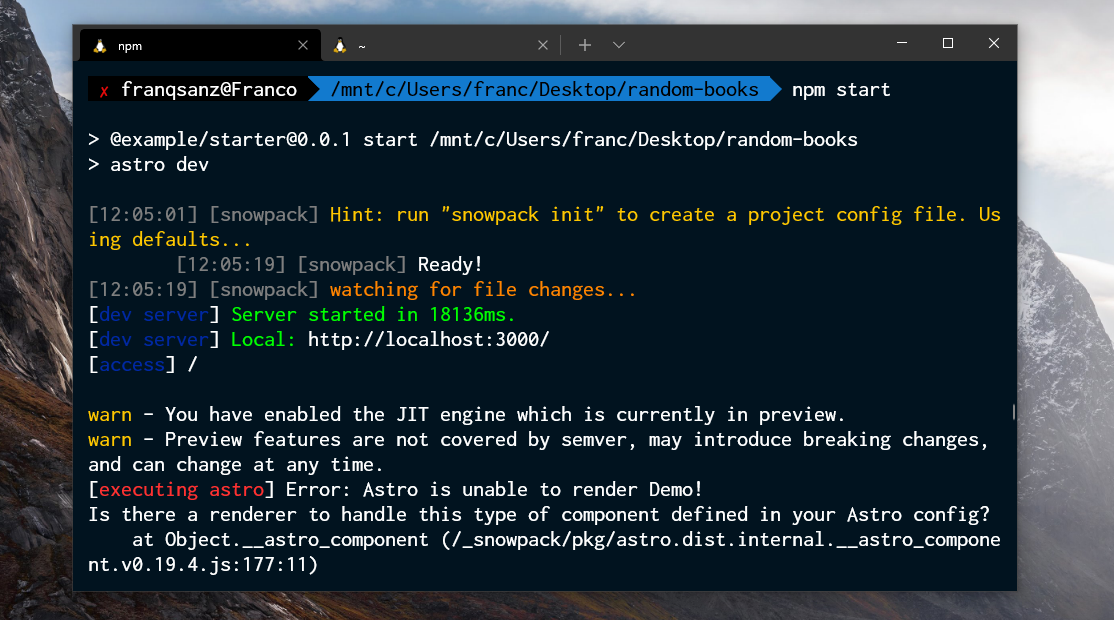
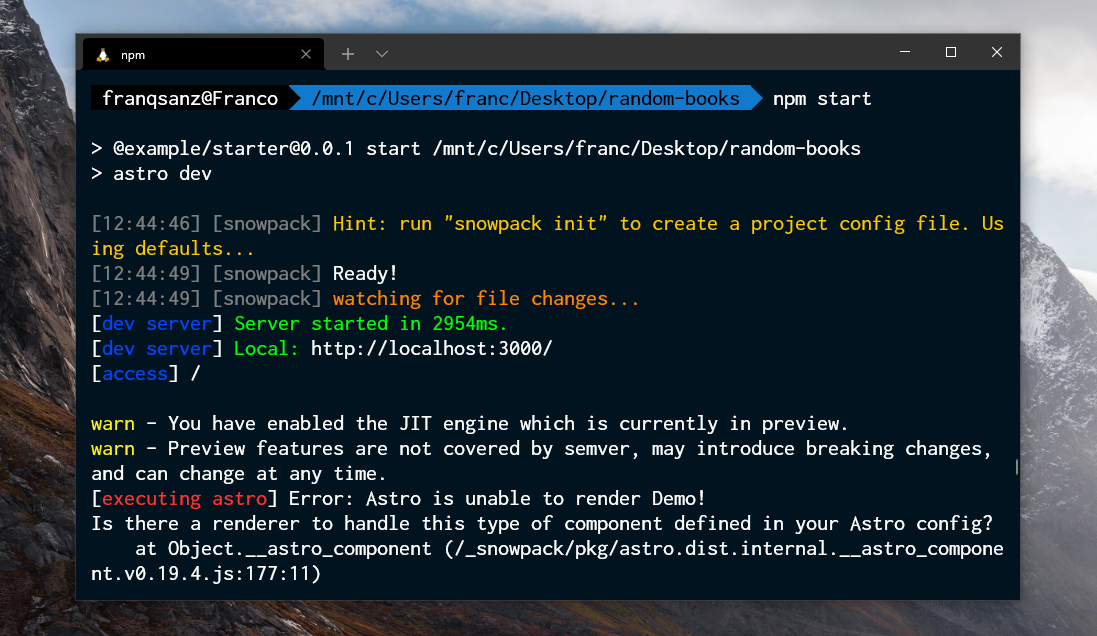
update colors

Changed region(s): [[0.0, 0.0, 1.0, 1.0]]

diff --git a/readme.md b/readme.md
@@ -1,5 +1,5 @@
 # Alive for [Windows Terminal](https://github.com/microsoft/terminal)
-🎨 Mi tema oscuro para Windows Terminal. Inspirado en el tema Dracula y Cobalt2.
+🎨 Mi tema oscuro para Windows Terminal. Inspirado en el tema [Cobalt2](https://github.com/wesbos/cobalt2-vscode).
 
 ![screenshot1](./img/1.png)
 ![screenshot2](./img/2.png)
@@ -17,7 +17,7 @@ Esto le abrirá lo siguiente:
 Luego navegue hasta "Combinaciones de colores"
 ![screenshot7](./img/7.png)
 
-## Esquema de colores
+### Esquema de colores
 
 ```json
 "schemes": [
@@ -27,13 +27,13 @@ Luego navegue hasta "Combinaciones de colores"
     "black": "#000000",
     "blue": "#127ACE",
     "brightBlack": "#079BFF",
-    "brightBlue": "#0028A3",
+    "brightBlue": "#0045FF",
     "brightCyan": "#FF8D39",
     "brightGreen": "#00AD00",
     "brightPurple": "#FF00FF",
     "brightRed": "#FF3131",
     "brightWhite": "#FFFFFF",
-    "brightYellow": "#FFC700",
+    "brightYellow": "#FFF11B",
     "cursorColor": "#FFC700",
     "cyan": "#FF8400",
     "foreground": "#FFFFFF",
@@ -79,8 +79,7 @@ Esta es mí preferencia personal pero quizás te guste.
 }
 ```
 
-### Fuentes que te pueden gustar
-
+### Fuentes recomendadas
 * MesloLGS NF
 * Cascadia Code PL
 * Inconsolata for Powerline
